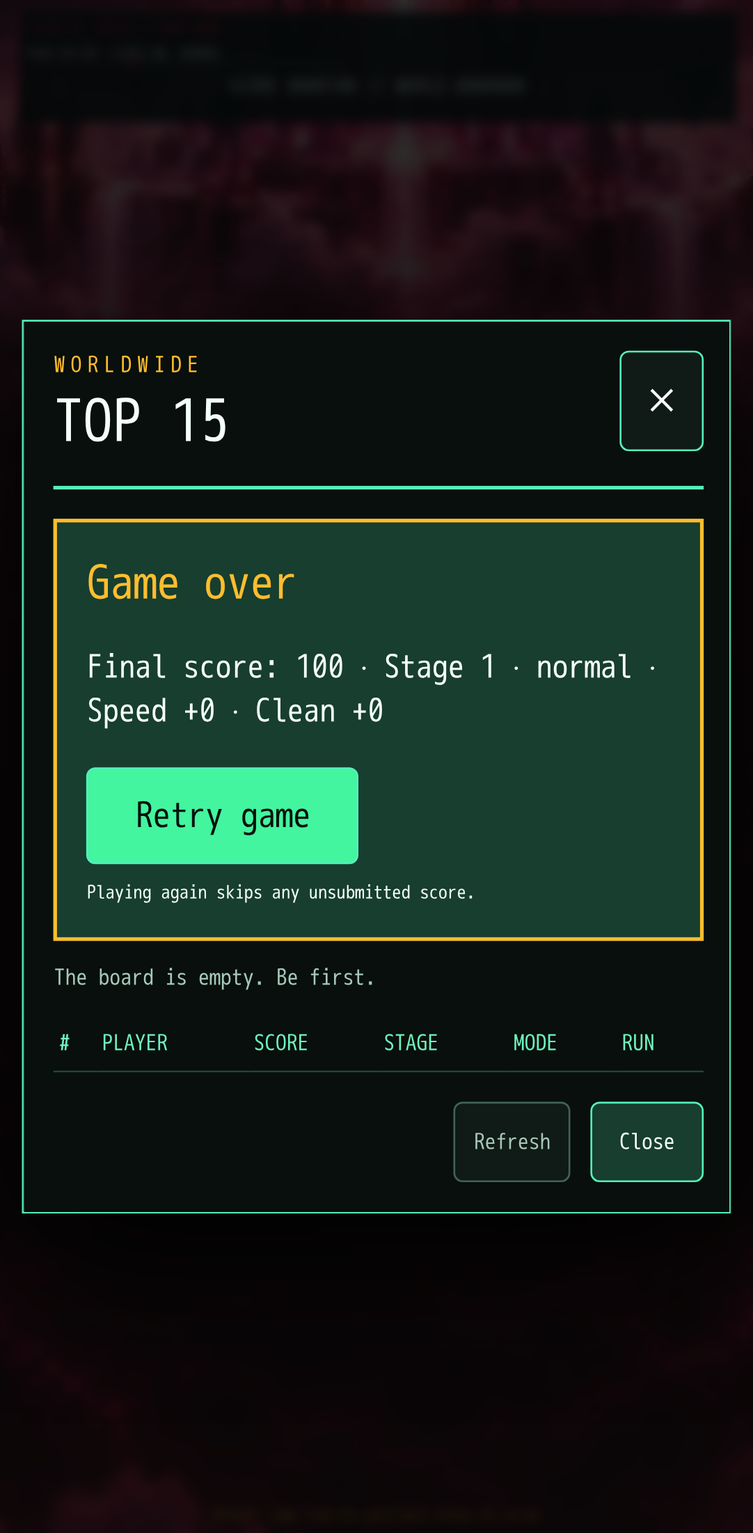
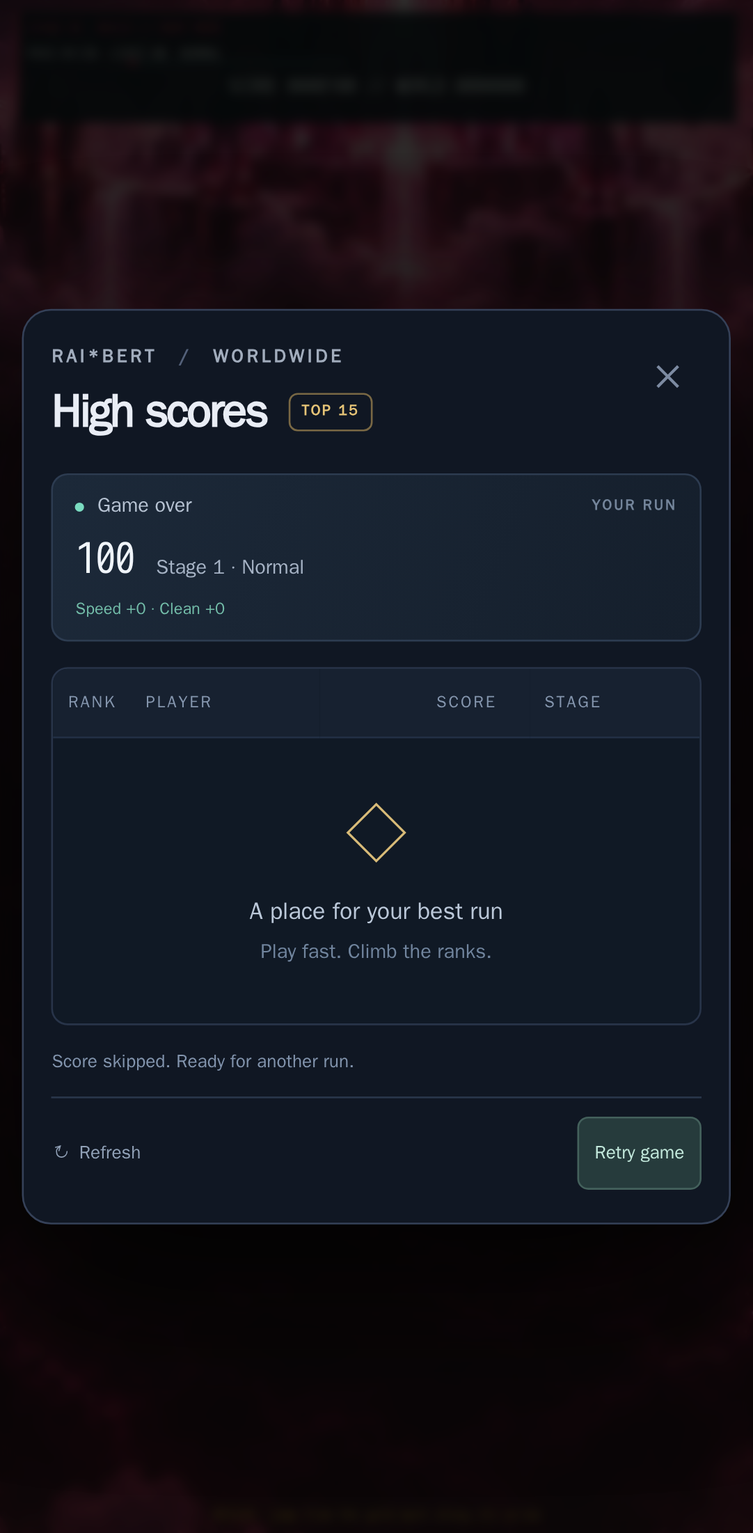
Refine scoreboard and replace score decisions with footer retry

diff --git a/public/web/app.css b/public/web/app.css
@@ -1,5 +1,12 @@
-:root{color-scheme:dark;font-family:ui-monospace,SFMono-Regular,Menlo,Consolas,monospace;background:#040907;color:#f5fff9}*{box-sizing:border-box}html,body{width:100%;height:100%;margin:0;overflow:hidden;overscroll-behavior:none;background:#040907}body{min-width:100dvw;min-height:100dvh}#game-surface{position:fixed;inset:0;width:100dvw;height:100dvh;padding:env(safe-area-inset-top) env(safe-area-inset-right) env(safe-area-inset-bottom) env(safe-area-inset-left);overflow:hidden;touch-action:none;user-select:none;-webkit-user-select:none}canvas{display:block;width:100%;height:100%;outline:0;background:#07100d}canvas:focus-visible{box-shadow:inset 0 0 0 3px #ffbd2e}#status{position:absolute;inset:0;margin:0;padding:1rem;display:grid;place-items:center;text-align:center;background:#07100df2;color:#70f2be;z-index:20}#status[hidden],[hidden]{display:none!important}button,input{min-height:44px;border:1px solid #55efbc;border-radius:5px;background:#101a17;color:#f5fff9;font:inherit;font-weight:700}button{padding:.65rem .9rem;cursor:pointer}button:hover{background:#173e2e}button:focus-visible,input:focus-visible{outline:3px solid #ffbd2e;outline-offset:2px}dialog{max-width:min(94dvw,780px);max-height:90dvh;padding:0;border:1px solid #55efbc;background:#08100df7;color:#f5fff9;box-shadow:0 18px 80px #000;opacity:0;transform:scale(.96);transition:opacity 200ms,transform 200ms}dialog[open]{opacity:1;transform:scale(1)}dialog::backdrop{background:#020604cf;backdrop-filter:blur(3px)}#menu-dialog form{width:min(88dvw,360px);padding:1.2rem;display:grid;gap:.75rem}#menu-dialog h2{margin:0 0 .4rem;color:#70f2be}#menu-dialog label{min-height:48px;padding:.6rem;border:1px solid #2a6850;display:flex;gap:.7rem;align-items:center}.leaderboard-card{width:min(94dvw,780px);padding:1rem}.leaderboard-card header{display:flex;justify-content:space-between;align-items:start;border-bottom:2px solid #55efbc}.leaderboard-card header p{margin:0;color:#ffbd2e;letter-spacing:.25em}.leaderboard-card h2{margin:.1rem 0 .7rem;font-size:2rem}.leaderboard-card header button{min-width:44px;font-size:1.5rem}#leaderboard-status{min-height:1.3em;color:#a5c8b7}.table-wrap{max-height:50dvh;overflow:auto}table{width:100%;border-collapse:collapse;font-variant-numeric:tabular-nums}th,td{padding:.45rem .35rem;text-align:left;border-bottom:1px solid #254638}th{color:#70f2be;font-size:.75rem;text-transform:uppercase}tr.new-entry{animation:pulse-row .55s ease-in-out 3;background:#413613}tbody tr{animation:row-in 200ms both;animation-delay:calc(var(--row)*40ms)}.leaderboard-card footer,#initials-form div{display:flex;justify-content:flex-end;gap:.7rem;margin-top:1rem}#initials-form{padding:1rem;border:1px solid #ffbd2e;display:grid;gap:.5rem}#initials{width:8ch;padding:.5rem;text-transform:uppercase;font-size:1.5rem;letter-spacing:.35em;text-align:center}#floating-controls{position:fixed;z-index:10;width:154px;height:154px;display:grid;grid-template:repeat(3,1fr)/repeat(3,1fr);gap:3px;padding:4px;border:1px solid #55efbc99;border-radius:18px;background:#07100dbb;backdrop-filter:blur(5px);touch-action:none}#floating-controls button{min-width:0;min-height:0;padding:0;border-radius:10px;font-size:1.25rem}#floating-controls .grip{grid-area:1/2;color:#ffbd2e;cursor:move}#floating-controls [data-action=up_left]{grid-area:1/1}#floating-controls [data-action=up_right]{grid-area:1/3}#floating-controls [data-action=down_left]{grid-area:3/1}#floating-controls [data-action=down_right]{grid-area:3/3}#floating-controls .mini-menu{grid-area:2/2;font-size:.8rem}@keyframes row-in{from{opacity:0;transform:translateY(5px)}}@keyframes pulse-row{50%{background:#8a711f;color:#fff}}@media(max-width:560px){.leaderboard-card{font-size:.76rem}th,td{padding:.4rem .18rem}.table-wrap{max-height:55dvh}}@media(prefers-reduced-motion:reduce){*,*::before,*::after{animation-duration:.01ms!important;animation-iteration-count:1!important;transition-duration:.01ms!important}}
+:root{color-scheme:dark;font-family:ui-monospace,SFMono-Regular,Menlo,Consolas,monospace;background:#040907;color:#f5fff9}*{box-sizing:border-box}html,body{width:100%;height:100%;margin:0;overflow:hidden;overscroll-behavior:none;background:#040907}body{min-width:100dvw;min-height:100dvh}#game-surface{position:fixed;inset:0;width:100dvw;height:100dvh;padding:env(safe-area-inset-top) env(safe-area-inset-right) env(safe-area-inset-bottom) env(safe-area-inset-left);overflow:hidden;touch-action:none;user-select:none;-webkit-user-select:none}canvas{display:block;width:100%;height:100%;outline:0;background:#07100d}canvas:focus-visible{box-shadow:inset 0 0 0 3px #ffbd2e}#status{position:absolute;inset:0;margin:0;padding:1rem;display:grid;place-items:center;text-align:center;background:#07100df2;color:#70f2be;z-index:20}#status[hidden],[hidden]{display:none!important}button,input{min-height:44px;border:1px solid #55efbc;border-radius:5px;background:#101a17;color:#f5fff9;font:inherit;font-weight:700}button{padding:.65rem .9rem;cursor:pointer}button:hover{background:#173e2e}button:focus-visible,input:focus-visible{outline:3px solid #ffbd2e;outline-offset:2px}dialog{max-width:min(94dvw,780px);max-height:90dvh;padding:0;border:1px solid #55efbc;background:#08100df7;color:#f5fff9;box-shadow:0 18px 80px #000;opacity:0;transform:scale(.96);transition:opacity 200ms,transform 200ms}dialog[open]{opacity:1;transform:scale(1)}dialog::backdrop{background:#020604cf;backdrop-filter:blur(3px)}#menu-dialog form{width:min(88dvw,360px);padding:1.2rem;display:grid;gap:.75rem}#menu-dialog h2{margin:0 0 .4rem;color:#70f2be}#menu-dialog label{min-height:48px;padding:.6rem;border:1px solid #2a6850;display:flex;gap:.7rem;align-items:center}#floating-controls{position:fixed;z-index:10;width:154px;height:154px;display:grid;grid-template:repeat(3,1fr)/repeat(3,1fr);gap:3px;padding:4px;border:1px solid #55efbc99;border-radius:18px;background:#07100dbb;backdrop-filter:blur(5px);touch-action:none}#floating-controls button{min-width:0;min-height:0;padding:0;border-radius:10px;font-size:1.25rem}#floating-controls .grip{grid-area:1/2;color:#ffbd2e;cursor:move}#floating-controls [data-action=up_left]{grid-area:1/1}#floating-controls [data-action=up_right]{grid-area:1/3}#floating-controls [data-action=down_left]{grid-area:3/1}#floating-controls [data-action=down_right]{grid-area:3/3}#floating-controls .mini-menu{grid-area:2/2;font-size:.8rem}@keyframes row-in{from{opacity:0;transform:translateY(5px)}}@keyframes pulse-row{50%{background:#8a711f;color:#fff}}@media(max-width:560px){.leaderboard-card{font-size:.76rem}th,td{padding:.4rem .18rem}.table-wrap{max-height:55dvh}}@media(prefers-reduced-motion:reduce){*,*::before,*::after{animation-duration:.01ms!important;animation-iteration-count:1!important;transition-duration:.01ms!important}}
 
-#run-result{padding:1rem;margin-top:1rem;border:2px solid #ffbd2e;background:#173e2e}#run-result h3{font-size:1.6rem;margin:0;color:#ffbd2e}#run-result p{font-size:1.1rem}#run-result small{display:block;margin-top:.6rem}#run-result button{background:#42f59e;color:#07100d}button:disabled{opacity:.5;cursor:wait}.leaderboard-card footer{flex-wrap:wrap}
+#ending-dialog{width:min(90dvw,620px);border:2px solid #ffbd2e;text-align:center;overflow:hidden}.ending-card{position:relative;padding:clamp(1.5rem,5vw,3rem);isolation:isolate}.ending-card::before{content:"";position:absolute;inset:15%;z-index:-1;border:2px solid #ffbd2e55;border-radius:50%;animation:ending-ring 1.4s ease-out 2}.ending-eyebrow{letter-spacing:.25em;color:#ffbd2e}#ending-title{font-size:clamp(2rem,7vw,3.3rem);margin:.7rem 0;animation:ending-arrive .6s ease-out}#ending-score{font-size:clamp(1.4rem,5vw,2rem);font-variant-numeric:tabular-nums;color:#70f2be}#ending-bonuses,.ending-next{color:#a5c8b7}#ending-dialog[data-outcome=victory]{border-color:#70f2be}@keyframes ending-ring{from{transform:scale(.4);opacity:1}to{transform:scale(2.5);opacity:0}}@keyframes ending-arrive{from{transform:translateY(18px) scale(.9);opacity:0}to{transform:none;opacity:1}}@media(prefers-reduced-motion:reduce){.ending-card::before,#ending-title{animation:none}}
 
-.leaderboard-card [data-retry]{font-size:.75rem;padding:.25rem .5rem;border-color:#416453;color:#a5c8b7;min-width:64px}.leaderboard-card [data-play-again]{font-size:1.2rem;padding:.8rem 1.6rem}#ending-dialog{width:min(90dvw,620px);border:2px solid #ffbd2e;text-align:center;overflow:hidden}.ending-card{position:relative;padding:clamp(1.5rem,5vw,3rem);isolation:isolate}.ending-card::before{content:"";position:absolute;inset:15%;z-index:-1;border:2px solid #ffbd2e55;border-radius:50%;animation:ending-ring 1.4s ease-out 2}.ending-eyebrow{letter-spacing:.25em;color:#ffbd2e}#ending-title{font-size:clamp(2rem,7vw,3.3rem);margin:.7rem 0;animation:ending-arrive .6s ease-out}#ending-score{font-size:clamp(1.4rem,5vw,2rem);font-variant-numeric:tabular-nums;color:#70f2be}#ending-bonuses,.ending-next{color:#a5c8b7}#ending-dialog[data-outcome=victory]{border-color:#70f2be}@keyframes ending-ring{from{transform:scale(.4);opacity:1}to{transform:scale(2.5);opacity:0}}@keyframes ending-arrive{from{transform:translateY(18px) scale(.9);opacity:0}to{transform:none;opacity:1}}@media(prefers-reduced-motion:reduce){.ending-card::before,#ending-title{animation:none}}
+/* Scoreboard: rankings first, with a compact run receipt and quiet actions. */
+#leaderboard-dialog{width:min(94dvw,760px);max-width:760px;border:1px solid #354158;border-radius:16px;background:#101723;color:#e9edf5;box-shadow:0 32px 100px #000b;font-family:system-ui,-apple-system,BlinkMacSystemFont,"Segoe UI",sans-serif}
+.leaderboard-card{padding:24px;width:100%}.scoreboard-header{display:flex;justify-content:space-between;align-items:flex-start;margin-bottom:22px}.scoreboard-kicker{margin:0 0 7px;font-size:10px;font-weight:750;letter-spacing:.18em;color:#a2adbd}.scoreboard-kicker span{padding:0 7px;color:#536079}.scoreboard-header h2{margin:0;display:flex;align-items:center;gap:12px;font-size:30px;font-weight:750;letter-spacing:-1px}.board-badge{border:1px solid #796844;border-radius:5px;padding:4px 6px;font-size:9px;letter-spacing:.12em;color:#e6c477}.scoreboard-header [data-close]{border:0;background:none;color:#7d8ba2;font-size:24px;padding:0;min-width:36px;min-height:36px;line-height:1}.scoreboard-header [data-close]:hover{color:#fff}
+#run-result{padding:12px 14px;margin:0 0 18px;border:1px solid #2d3c51;border-radius:9px;background:linear-gradient(110deg,#1c2939,#151f2c)}.run-heading{display:flex;align-items:center;gap:7px}.run-dot{width:5px;height:5px;background:#7adbc0;border-radius:50%}#run-outcome{margin:0;font-size:11px;font-weight:550;color:#b7c3d3}.run-label{margin-left:auto;font-size:8px;font-weight:750;letter-spacing:.14em;color:#74859b}#run-summary{display:flex;align-items:baseline;gap:12px;flex-wrap:wrap;margin:6px 0 0;font-variant-numeric:tabular-nums}#run-summary strong{font-family:ui-monospace,monospace;font-size:23px;font-weight:600;letter-spacing:-.8px;color:#f0f5fb}#run-summary span{font-size:11px;color:#a6b3c5;text-transform:capitalize}#run-summary small{margin-left:auto;font-size:10px;color:#73bda9}
+.table-wrap{max-height:42dvh;overflow:auto;border:1px solid #283449;border-radius:9px;background:#101925;scrollbar-color:#36465e #101925}table{width:100%;border-collapse:collapse;font-variant-numeric:tabular-nums}th,td{padding:13px 10px;text-align:left;border-bottom:1px solid #223045;white-space:nowrap}th{position:sticky;top:0;background:#172130;z-index:1;color:#8596ae;font-size:9px;text-transform:uppercase;letter-spacing:.12em;font-weight:650}td{font-size:11px;color:#93a5bc}th:first-child,td:first-child{width:56px;text-align:center}td:nth-child(2){font-family:ui-monospace,monospace;font-weight:700;letter-spacing:.14em;font-size:13px;color:#e9eef6}th:nth-child(3),td:nth-child(3){text-align:right;padding-right:18px}td:nth-child(3){font-family:ui-monospace,monospace;font-size:16px;letter-spacing:-.4px;color:#f1f5fc}td:nth-child(5),td:nth-child(6){text-transform:capitalize;font-size:10px}tbody tr:last-child td{border-bottom:0}tbody tr:nth-child(even){background:#14202d}tbody tr[data-rank="1"]{background:linear-gradient(90deg,#302b203d,#172130);box-shadow:inset 2px 0 #d9b568}tbody tr[data-rank="1"] td:first-child,tbody tr[data-rank="1"] td:nth-child(3){color:#efce81}tbody tr[data-rank="2"] td:first-child{color:#c4d0e3}tbody tr[data-rank="3"] td:first-child{color:#ce9d80}tbody tr.new-entry{background:#1b3b37;box-shadow:inset 2px 0 #79d9bf;animation:pulse-row .55s ease-in-out 3}tbody tr:hover{background:#1e2b3c}tbody tr{animation:row-in 200ms both;animation-delay:calc(var(--row)*25ms)}
+.empty-board td{height:172px;text-align:center;white-space:normal}.empty-board td>*{display:block}.empty-emblem{font-size:35px;color:#d8bb78;margin-bottom:9px}.empty-board strong{font-size:13px;font-weight:500;color:#bbc8d9;margin-bottom:6px}.empty-board span:last-child{font-size:11px;color:#71859e}
+#initials-form{margin-top:14px;padding:12px 0 0;border:0;border-top:1px solid #29364a;display:grid;gap:8px}#initials-form label{font-size:12px;color:#d7c38f}.initials-entry{display:flex;align-items:center;gap:8px}#initials{width:5.5em;min-height:38px;padding:7px 10px;border:1px solid #51627a;border-radius:6px;background:#182434;font-family:ui-monospace,monospace;letter-spacing:.2em;font-size:16px;text-align:center;text-transform:uppercase}#initials-form button{font-size:11px;min-height:38px;padding:8px 12px;border:1px solid #4a665f;border-radius:6px;background:#203a34;color:#b8e5d9}#initials-help{font-size:9px;color:#73859d}#leaderboard-status{margin:12px 0;font-size:10px;line-height:1.5;color:#8294ad;min-height:15px}.leaderboard-card footer{display:flex;align-items:center;justify-content:space-between;gap:8px;border-top:1px solid #29364a;padding-top:10px}.scoreboard-actions{display:flex;gap:6px;align-items:center}.leaderboard-card footer button{min-height:40px;padding:7px 11px;font-family:inherit;font-size:11px;font-weight:550;border-radius:6px;white-space:nowrap}.leaderboard-card [data-retry],.leaderboard-card footer [data-close],.leaderboard-card [data-skip]{background:transparent;border:1px solid transparent;color:#91a1b7}.leaderboard-card [data-retry]{font-size:10px;padding-left:0}.leaderboard-card [data-retry] span{font-size:14px;margin-right:3px}.leaderboard-card [data-play-again],.leaderboard-card [data-submit-score]{background:#263b3c;border:1px solid #44615c;color:#c3e9dc}.leaderboard-card footer button:hover{background:#223044;color:#fff}.leaderboard-card button:disabled{opacity:.35;cursor:not-allowed}.sr-only{position:absolute;width:1px;height:1px;padding:0;margin:-1px;overflow:hidden;clip:rect(0,0,0,0);white-space:nowrap;border:0}
+@media(max-width:560px){.leaderboard-card{padding:18px 15px}.scoreboard-header{margin-bottom:17px}.scoreboard-header h2{font-size:25px}.board-badge{font-size:8px}th,td{padding:12px 8px}th:nth-child(n+5),td:nth-child(n+5){display:none}th:first-child,td:first-child{width:40px}#run-summary small{width:100%;margin-left:0;font-size:9px}#run-summary{gap:5px 12px}#run-result{padding:10px 12px;margin-bottom:14px}.table-wrap{max-height:36dvh}.scoreboard-actions{gap:1px}.leaderboard-card footer button{padding:7px 8px;font-size:10px}.empty-board td{height:156px}}

diff --git a/public/web/app.js b/public/web/app.js
@@ -523,10 +523,28 @@ function renderLeaderboard(board, highlightId) {
   const rows = document.querySelector("#leaderboard-rows"); rows.replaceChildren();
   (board.entries || []).forEach((entry, index) => {
     const row = document.createElement("tr"); row.style.setProperty("--row", index);
+    row.dataset.rank = entry.rank || index + 1;
     if (entry.id === highlightId) row.classList.add("new-entry");
     for (const value of [entry.rank || index+1, entry.initials, Number(entry.score).toLocaleString("en-US"), Number(entry.stage), entry.difficulty, entry.outcome.replace("_", " ")]) { const cell=document.createElement("td"); cell.textContent=value; row.append(cell); }
     rows.append(row);
   });
+  if (!board.entries?.length) {
+    const row = document.createElement("tr");
+    row.className = "empty-board";
+    const cell = document.createElement("td");
+    cell.colSpan = 6;
+    const emblem = document.createElement("span");
+    emblem.className = "empty-emblem";
+    emblem.setAttribute("aria-hidden", "true");
+    emblem.textContent = "◇";
+    const title = document.createElement("strong");
+    title.textContent = "A place for your best run";
+    const hint = document.createElement("span");
+    hint.textContent = "Play fast. Climb the ranks.";
+    cell.append(emblem, title, hint);
+    row.append(cell);
+    rows.append(row);
+  }
   animateWorldScore(board.highScore ?? null);
 }
 function animateWorldScore(next) {
@@ -597,12 +615,29 @@ function showEnding() {
 endingDialog.querySelector("[data-view-scores]").addEventListener("click", finishEnding);
 endingDialog.addEventListener("cancel", event => { event.preventDefault(); finishEnding(); });
 
+function updateScoreActions() {
+  document.querySelector("[data-play-again]").hidden = !completedRun || Boolean(pendingRun);
+  document.querySelector("[data-play-again]").disabled = Boolean(pendingRun) || submittingRun;
+  document.querySelector("[data-submit-score]").hidden = !pendingRun || document.querySelector("#initials-form").hidden;
+  document.querySelector("[data-skip]").hidden = !pendingRun;
+}
 function renderRunResult() {
+  updateScoreActions();
   const run = ["game_over", "victory"].includes(gameState.status) ? completedRun : null;
   document.querySelector("#run-result").hidden = !run;
+
   if (!run) return;
   document.querySelector("#run-outcome").textContent = run.outcome === "victory" ? "Victory! All 20 stages cleared" : "Game over";
-  document.querySelector("#run-summary").textContent = `Final score: ${Number(run.score).toLocaleString("en-US")} · Stage ${run.stage} · ${run.difficulty} · Speed +${run.bonuses.speed || 0} · Clean +${run.bonuses.clean || 0}`;
+  const summary = document.querySelector("#run-summary");
+  summary.replaceChildren();
+  const score = document.createElement("strong");
+  score.textContent = Number(run.score).toLocaleString("en-US");
+  score.setAttribute("aria-label", `Final score: ${run.score}`);
+  const stage = document.createElement("span");
+  stage.textContent = `Stage ${run.stage} · ${run.difficulty}`;
+  const bonuses = document.createElement("small");
+  bonuses.textContent = `Speed +${run.bonuses.speed || 0} · Clean +${run.bonuses.clean || 0}`;
+  summary.append(score, stage, bonuses);
 }
 async function refreshLeaderboard(offerSubmission) {
   const request = ++leaderboardRequest;
@@ -618,12 +653,14 @@ async function refreshLeaderboard(offerSubmission) {
   } else if (offerSubmission && online && run) {
     document.querySelector("#leaderboard-status").textContent = "That run did not reach the current Top 15.";
   }
+  updateScoreActions();
 }
 async function openLeaderboard(offerSubmission) {
   if (menuDialog.open) menuDialog.close();
   if (gameState.screen === "game" && gameState.status === "playing" && !gameState.paused) { dispatchAction("pause"); leaderboardPausedGame = true; }
   renderRunResult();
   document.querySelector("#initials-form").hidden = true;
+  updateScoreActions();
   if (!leaderboardDialog.open) leaderboardDialog.showModal();
   updateFloatingControls();
   await refreshLeaderboard(offerSubmission);
@@ -631,7 +668,7 @@ async function openLeaderboard(offerSubmission) {
 leaderboardDialog.querySelectorAll("[data-close]").forEach(button => button.addEventListener("click", () => leaderboardDialog.close()));
 leaderboardDialog.querySelector("[data-retry]").addEventListener("click", () => refreshLeaderboard(Boolean(pendingRun)));
 leaderboardDialog.querySelector("[data-play-again]").addEventListener("click", () => {
-  if (submittingRun) return;
+  if (submittingRun || pendingRun) return;
   pendingRun = null;
   completedRun = null;
   leaderboardRequest++;
@@ -641,7 +678,13 @@ leaderboardDialog.querySelector("[data-play-again]").addEventListener("click", (
 });
 leaderboardDialog.addEventListener("cancel", event => { if (submittingRun) event.preventDefault(); });
 leaderboardDialog.addEventListener("close", () => { leaderboardRequest++; if (leaderboardPausedGame && resumableRun() && gameState.paused) dispatchAction("pause"); leaderboardPausedGame = false; updateFloatingControls(); canvas.focus(); });
-document.querySelector("[data-skip]").addEventListener("click", () => { document.querySelector("#initials-form").hidden = true; pendingRun = null; });
+document.querySelector("[data-skip]").addEventListener("click", () => {
+  document.querySelector("#initials-form").hidden = true;
+  pendingRun = null;
+  updateScoreActions();
+  document.querySelector("#leaderboard-status").textContent = "Score skipped. Ready for another run.";
+  document.querySelector("[data-play-again]").focus();
+});
 document.querySelector("#initials").addEventListener("input", event => { event.target.value = event.target.value.toUpperCase().replace(/[^A-Z]/g, "").slice(0, 3); });
 document.querySelector("#initials-form").addEventListener("submit", async event => {
   event.preventDefault();
@@ -663,11 +706,13 @@ document.querySelector("#initials-form").addEventListener("submit", async event 
     document.querySelector("#initials-form").hidden = true;
     message.textContent = board.rank ? `Accepted at rank ${board.rank}.` : "The cutoff changed; this run did not qualify.";
     pendingRun = null;
-  } catch (error) { message.textContent = `Submission failed: ${error.message}. Submit score to retry, skip, or play again.`; }
+  } catch (error) { message.textContent = `Submission failed: ${error.message}. Submit again or choose Skip score.`; }
   finally {
     clearTimeout(submissionTimeout);
     submittingRun = false;
     leaderboardDialog.querySelectorAll("button").forEach(button => { button.disabled = false; });
+    updateScoreActions();
+    leaderboardDialog.querySelector(pendingRun ? "[data-submit-score]" : "[data-play-again]").focus();
   }
 });
 

diff --git a/public/index.html b/public/index.html
@@ -4,5 +4,24 @@
 <section id="floating-controls" aria-label="Floating game controls" hidden><button class="grip" type="button" aria-label="Drag controls">⠿</button><button type="button" data-action="up_left" aria-label="Hop up-left">↖</button><button type="button" data-action="up_right" aria-label="Hop up-right">↗</button><button type="button" data-action="down_left" aria-label="Hop down-left">↙</button><button type="button" data-action="down_right" aria-label="Hop down-right">↘</button><button class="mini-menu" type="button" data-menu aria-label="Pause menu">Ⅱ</button></section></main>
 <dialog id="menu-dialog" aria-labelledby="menu-title"><form method="dialog"><h2 id="menu-title">Rai*bert Menu</h2><button value="resume" data-menu-primary>Resume</button><button type="button" data-leaderboard>Worldwide Top 15</button><label><input id="floating-toggle" type="checkbox"> Floating controls</label><button type="button" data-mute>Mute / unmute</button><button type="button" data-reset>Reset defaults</button></form></dialog>
 <dialog id="ending-dialog" aria-labelledby="ending-title"><div class="ending-card"><p class="ending-eyebrow">RUN COMPLETE</p><h2 id="ending-title"></h2><p id="ending-score"></p><p id="ending-bonuses"></p><p class="ending-next">Next: worldwide leaderboard</p><button type="button" data-view-scores>View leaderboard</button></div></dialog>
-<dialog id="leaderboard-dialog" aria-labelledby="leaderboard-title"><div class="leaderboard-card"><header><div><p>WORLDWIDE</p><h2 id="leaderboard-title">TOP 15</h2></div><button type="button" data-close aria-label="Close leaderboard">×</button></header><section id="run-result" aria-live="polite" hidden><h3 id="run-outcome"></h3><p id="run-summary"></p><button type="button" data-play-again>Retry game</button><small>Playing again skips any unsubmitted score.</small></section><p id="leaderboard-status" role="status" aria-live="polite">Loading worldwide scores…</p><form id="initials-form" hidden><label for="initials">You made the board — enter three initials</label><input id="initials" name="initials" inputmode="text" autocomplete="off" maxlength="3" pattern="[A-Za-z]{3}" aria-describedby="initials-help"><small id="initials-help">Letters A–Z only.</small><div><button type="submit">Submit score</button><button type="button" data-skip>Skip</button></div></form><div class="table-wrap"><table><thead><tr><th>#</th><th>Player</th><th>Score</th><th>Stage</th><th>Mode</th><th>Run</th></tr></thead><tbody id="leaderboard-rows"></tbody></table></div><footer><button type="button" data-retry aria-label="Refresh scoreboard">Refresh</button><button type="button" data-close>Close</button></footer></div></dialog>
+<dialog id="leaderboard-dialog" aria-labelledby="leaderboard-title">
+  <div class="leaderboard-card">
+    <header class="scoreboard-header">
+      <div><p class="scoreboard-kicker">RAI*BERT <span aria-hidden="true">/</span> WORLDWIDE</p><h2 id="leaderboard-title">High scores<span class="board-badge">TOP 15</span></h2></div>
+      <button type="button" data-close aria-label="Close leaderboard">×</button>
+    </header>
+    <section id="run-result" aria-live="polite" hidden>
+      <div class="run-heading"><span class="run-dot" aria-hidden="true"></span><h3 id="run-outcome"></h3><span class="run-label">YOUR RUN</span></div>
+      <p id="run-summary"></p>
+    </section>
+    <div class="table-wrap"><table><caption class="sr-only">Worldwide top fifteen scores, highest first</caption><thead><tr><th scope="col">Rank</th><th scope="col">Player</th><th scope="col">Score</th><th scope="col">Stage</th><th scope="col">Mode</th><th scope="col">Run</th></tr></thead><tbody id="leaderboard-rows"></tbody></table></div>
+    <form id="initials-form" hidden>
+      <label for="initials">You made the board — enter three initials</label>
+      <div class="initials-entry"><input id="initials" name="initials" inputmode="text" autocomplete="off" maxlength="3" pattern="[A-Za-z]{3}" aria-describedby="initials-help"></div>
+      <small id="initials-help">Letters A–Z only.</small>
+    </form>
+    <p id="leaderboard-status" role="status" aria-live="polite">Loading worldwide scores…</p>
+    <footer><button type="button" data-retry aria-label="Refresh scoreboard"><span aria-hidden="true">↻</span> Refresh</button><div class="scoreboard-actions"><button type="submit" form="initials-form" data-submit-score hidden>Submit score</button><button type="button" data-skip hidden>Skip score</button><button type="button" data-play-again title="Start a new run" hidden>Retry game</button></div></footer>
+  </div>
+</dialog>
 <script type="module" src="/web/app.js"></script></body></html>

diff --git a/docs/feedback/validation-2026-10-07.md b/docs/feedback/validation-2026-10-07.md
@@ -4,7 +4,7 @@ This release addresses issues #5–#9 and #12 after the analytics prerequisite i
 
 ## Game-over and replay (#5)
 
-A 2.8-second animated ending (1.2 seconds with reduced motion) shows the outcome and counts up the final score before automatically opening the leaderboard. Players can continue immediately. Distinct four-note loss/victory tones honor mute. The leaderboard retains a visible loss/victory result, final score, and stage. Retry game resets the actual Ruby game; Refresh only fetches scores. An in-flight submission temporarily disables replay/close, with a 15-second timeout so a stalled request cannot trap the player. Offline failures preserve the run for retry, skip, or replay. Restarting through either the leaderboard or menu clears the old submission.
+A 2.8-second animated ending (1.2 seconds with reduced motion) shows the outcome and counts up the final score before automatically opening the leaderboard. Players can continue immediately. Distinct four-note loss/victory tones honor mute. The leaderboard retains a visible loss/victory result, final score, and stage. The redesigned scoreboard centers the ranking table, with a compact run summary, restrained colors, top-rank accents and a useful empty state. Footer Submit score / Skip score actions become Retry game only after a successful submission or an explicit skip. Keyboard focus follows the replacement action. Retry game resets the actual Ruby game; the small Refresh control only fetches scores. An in-flight submission temporarily disables replay/close, with a 15-second timeout so a stalled request cannot trap the player. Offline failures preserve the run for another submission attempt or explicit skip before replay. Restarting through either the leaderboard or menu clears the old submission.
 
 Playwright exposes the Ruby VM only through an intercepted test response. The production client contains no test-evaluation API. Tests complete a real Ruby fall or the last stage's final tile, wait for the actual game outcome, and exercise keyboard/touch replay. A fresh default run has three lives, stage 1, and **100 points**: reset clears the old score, then the starting tile awards 100. The issue brief's proposed zero-score assertion was inconsistent with the existing scoring rules.
 
@@ -62,3 +62,5 @@ Headless frame samples (60 frames, video recording and two workers) had a 33.3 m
 - [Movement preset, desktop](controls-desktop.png)
 - [Down-angle rescue guidance, stage 15 mobile](rescue-stage-15-mobile.png)
 - [Animated ending, mobile (during score count-up)](ending-mobile.png)
+- [Populated scoreboard, desktop](scoreboard-desktop.png)
+- [Populated scoreboard, mobile](scoreboard-mobile.png)

diff --git a/README.md b/README.md
@@ -44,7 +44,7 @@ Gold marks and arrows show each rescue ship’s exact launch tile and direction.
 
 Swipe diagonally to hop. On the selection screen, swipe horizontally for a character, vertically for difficulty, and tap to start. Tap during play to pause; hold on selection to open the menu. A compact draggable D-pad is available from the menu and is hidden by default.
 
-After a loss or victory, an animated ending with a custom sound leads into the leaderboard. The result panel retains your final score, stage, and earned bonuses. **Retry game** starts a fresh run and skips any unsubmitted score. **Refresh** only reloads the leaderboard.
+After a loss or victory, an animated ending with a custom sound leads into the leaderboard. The result panel retains your final score, stage, and earned bonuses. The footer shows **Submit score** / **Skip score**, then replaces those actions with **Retry game** after submission or an explicit skip. **Refresh** only reloads the leaderboard.
 
 ## Worldwide leaderboard
 
